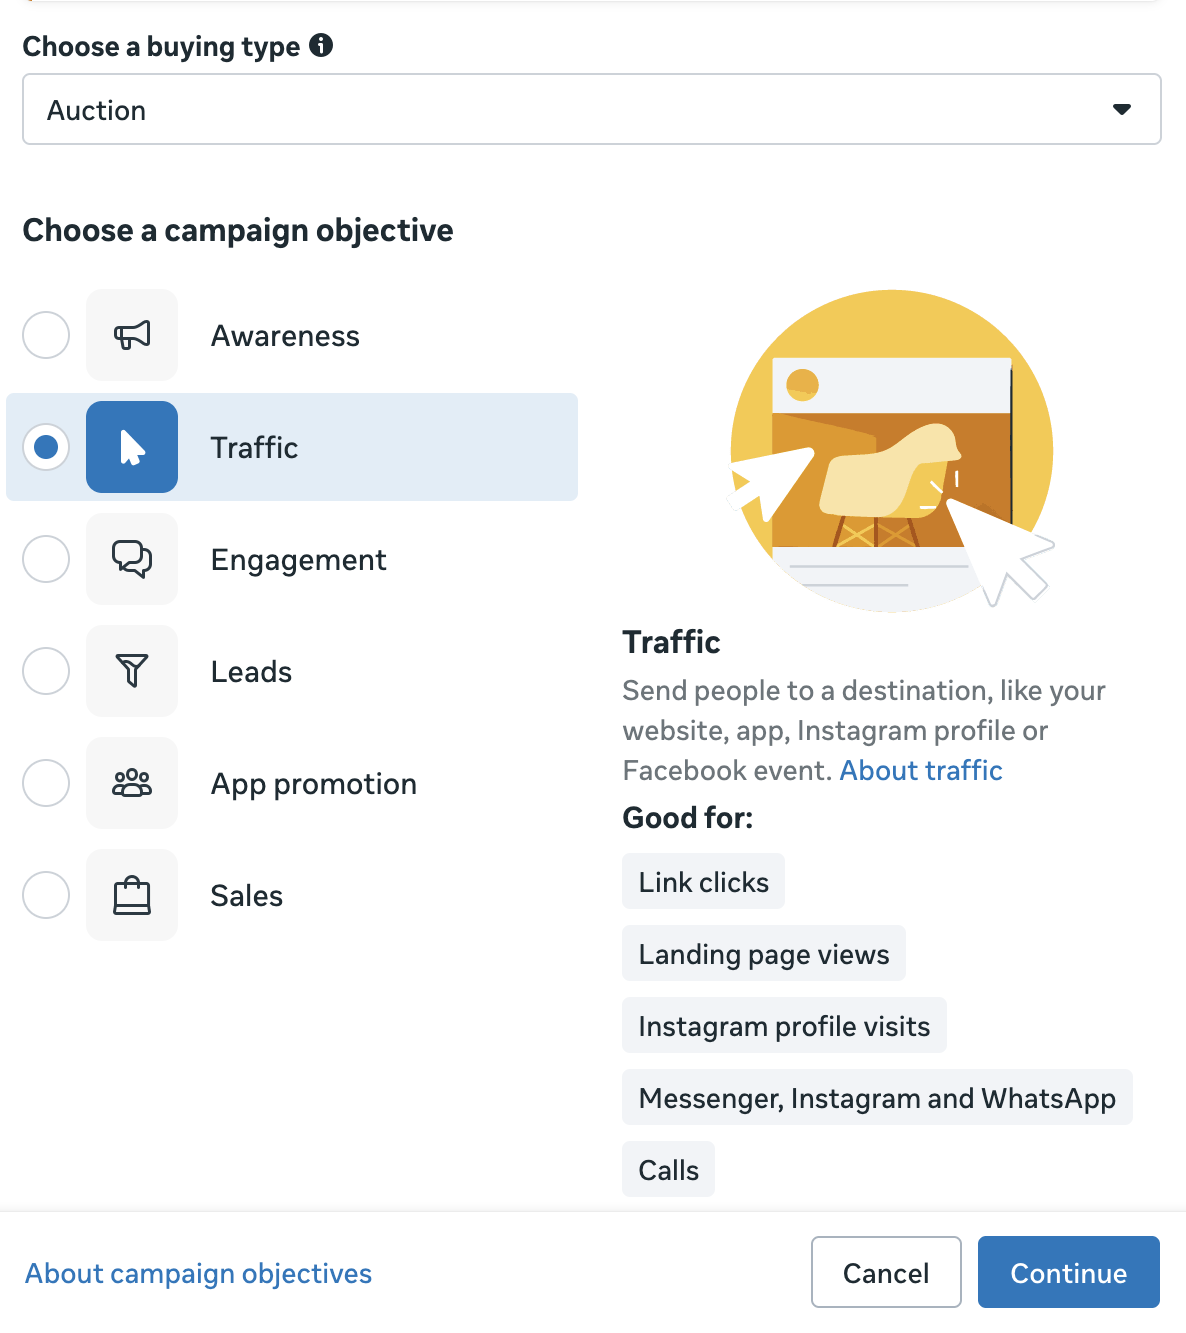
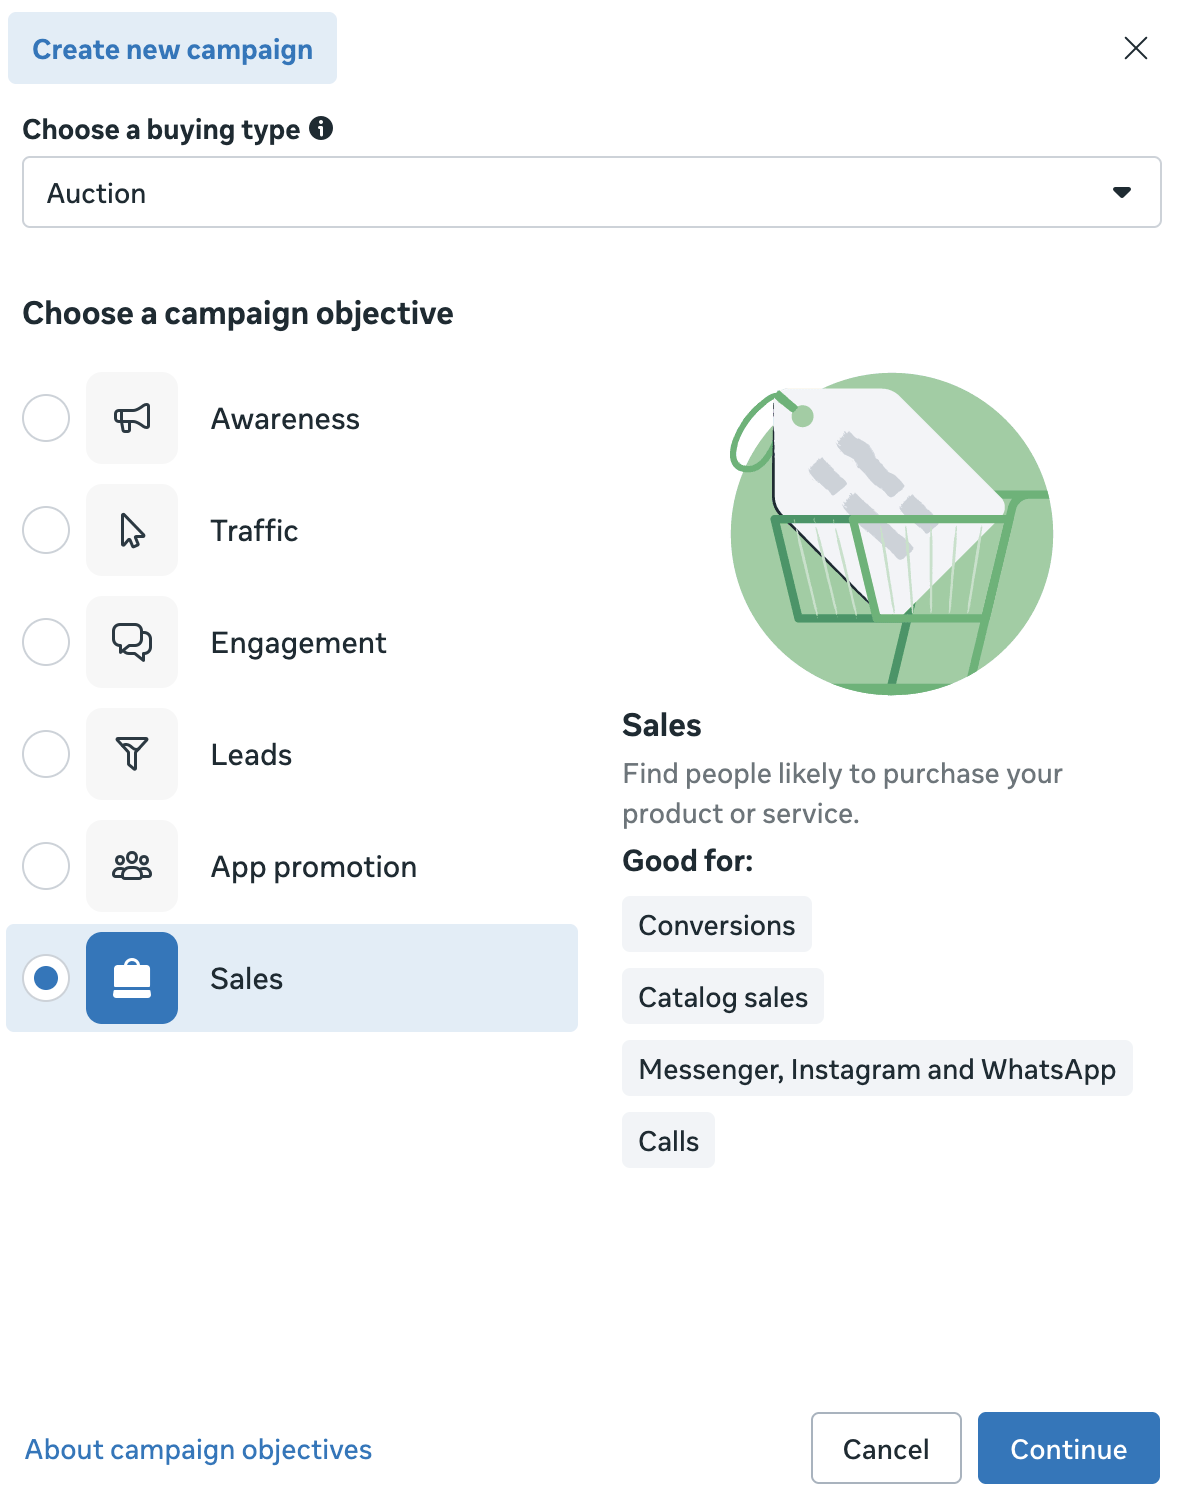
Meta fixes

diff --git a/versioned_docs/version-3.0/meta-create-campaign.md b/versioned_docs/version-3.0/meta-create-campaign.md
@@ -33,11 +33,31 @@ So, you need to link your business page to your Meta Ads business portfolio:
 
    <ZoomImage id="add-page-meta.png" />
 
-3. Optionally, attach your Instagram account on the **Account > Instagram accounts** in the settings.
+3. Optionally, attach your Instagram account on the **Account > Instagram accounts** page in the settings.
 
 Once you've connected your business page, you're ready to move further.
 
-## Step 2. Create campaign
+## Step 2. Add Meta pixel
+
+You will need a Meta pixel to connect your campaign data to revenue and get better results.
+
+Before you connect data and create a pixel, you will need:
+- A business page – add it to your business portfolio in [**Settings > Accounts > Pages**](https://business.facebook.com/latest/settings/pages)
+- A business manager account – you must have full control over the business portfolio
+- A business email – set in [**Settings > Business info**](https://business.facebook.com/latest/settings/business_info)
+- An ad account – add it to your business portfolio in [**Settings > Accounts > Ad accounts**](https://business.facebook.com/latest/settings/ad_accounts)
+
+When you're ready, create a pixel:
+1. Go to [**Events Manager**](https://www.facebook.com/events_manager2). Click **Connect data**.
+   <ZoomImage id="connect-data.webp" />
+2. Select **Web** as a data source type.
+   <ZoomImage id="new-data-source.webp" />
+3. Give your dataset a name and click **Create**.
+   <ZoomImage id="new-dataset.webp" />
+4. If you are planning to use Meta Ads with some MMP service (e.g., [Adapty User Acquisition](adapty-user-acquisition.md)), you won't need to complete the full installation of the pixel. So, when asked about the integration, you can just click **Cancel** in the setup window, and your pixel will still appear on the list.
+5. When your dataset appears on the list, you can proceed with creating a campaign.
+
+## Step 3. Create campaign
 
 To create a campaign in Meta Ads Manager:
 
@@ -45,59 +65,54 @@ To create a campaign in Meta Ads Manager:
 
    <ZoomImage id="meta-new-campaign.webp" />
 
-2. Select a campaign objective and click **Continue**.
+2. Select **Sales** as a campaign objective and click **Continue**.
    
-   Select **Traffic** if you are working with [Adapty User Acquisition](adapty-user-acquisition.md) to connect the campaign data with your revenue metrics.
    <ZoomImage id="meta-objective.webp" />
 
-3. Select **Manual traffic campaign** to have more control over the campaign settings. Then, click **Continue**
-
-   <ZoomImage id="campaign-setup.webp" />
-
-4. Name your campaign in the **Campaign name** section.
-5. In the **Budget** section, in **Budget strategy**, select how you want to control the budget:
+3. Name your campaign in the **Campaign name** section.
+4. In the **Budget** section, in **Budget strategy**, select how you want to control the budget:
    - **Campaign budget**: The easiest option if you are not sure which opportunities would work best. If you select this, Meta Ads will automatically detect top performers to allocate more budget on better-performing ad sets.
    
      Then, select whether you need **Daily** or **Lifetime** budget and enter the limit in your currency. **Daily** budget allows you more flexibility while you are still learning, so you can start with smaller amounts and gradually adjust them on the go. Or, you can select **Schedule budget increase** and set rules to automatically increase the budget by value amount or percentage.
      <ZoomImage id="daily-budget.webp" />
    - **Ad set budget**: Select this option if you want to manually define which audiences will get more or less campaign budget. If not completely sure, you can select **Share some of your budget with other ad sets** to allow Meta to automatically adjust ad set budgets by up to 20% if it benefits the ad performance.
      <ZoomImage id="ad-set-budget.webp" />
-6. In **Campaign bid strategy**, select the best option for your goals:
+5. In **Campaign bid strategy**, select the best option for your goals:
    - **Highest volume (default)**: The easiest option to get started. If you select this, you let Meta optimize the click cost to get the best results for your budget.
    - **Cost per result goal**: Aim for a certain cost per result if you know your benchmarks.
    - **Bid cap**: Set the highest cost you are ready to bid.
    <ZoomImage id="campaign-bid.webp" />
-7. If you want to test different creatives, audiences, or placements against each other, enable A/B tests. Read more about A/B tests in Meta Ads Manager [here](https://www.facebook.com/business/help/1159714227408868).
-8. Now, it's time to add the first ad set to your campaign. Click **Next** to proceed.
+6. Adapty lets you conduct comprehensive [A/B tests](ab-tests.md). However, you can also enable A/B tests in Meta Ads if needed. Read more about A/B tests in Meta Ads Manager [here](https://www.facebook.com/business/help/1159714227408868).
+7. Now, it's time to add the first ad set to your campaign. Click **Next** to proceed.
 
-## Step 3. Create ad set
+## Step 4. Create ad set
 
 To create an ad set:
 1. Give your ad set a name in the **Ad set name** field.
-2. In the **Conversion** section, select **Website**. 
-    :::tip
-    In [Adapty User Acquisition](adapty-user-acquisition.md), you can create a link that will contain tracking parameters and automatically send users to your app in stores.
-    :::
+2. In the **Conversion location** dropdown, select **Website**. 
    <ZoomImage id="conversion-location.webp" />
-3. In the **Performance goal** field, select **Maximize number of landing page views** or **Maximize number of link clicks**. Both will work in our case.
+3. In the **Performance goal** field, select **Maximize number of landing page views** if you have a landing page or **Maximize number of link clicks** if you use a smart link navigating users directly to the store.
 
    <ZoomImage id="performance-goal.webp" />
 
-4. If you have some audiences or placements that are worth more to your business than the others, you can set **Value rules**. Read more [here](https://www.facebook.com/business/help/535014515741813).
-5. If, when setting up the campaign, you have selected **Ad set budget**, select whether you need **Daily** or **Lifetime** budget and enter the limit in your currency. **Daily** budget allows you more flexibility while you are still learning, so you can start with smaller amounts and gradually adjust them on the go. 
+4. In the **Dataset** field, select the dataset you've created on [Step 2](#step-2-add-meta-pixel).
+5. Select a **Conversion event**. In our case, it is probably going to be **Purchase** or **Start trial**. Don't worry if you see a warning that your dataset doesn't have any events yet – that just means that your dataset is new.
+   <ZoomImage id="conversion-event.webp" />
+
+6. If, when setting up the campaign, you have selected **Ad set budget**, select whether you need **Daily** or **Lifetime** budget and enter the limit in your currency. **Daily** budget allows you more flexibility while you are still learning, so you can start with smaller amounts and gradually adjust them on the go. 
    
    Set the start and, if applicable, end dates for the ad set. For example, if you want to advertise a promotional offer in your app, it is crucial to align the ad set timeframe with the offer.
 
    <ZoomImage id="ad-set-money.webp" />
 
-6. In the **Audience controls** section, set the audience settings:
+7. In the **Audience controls** section, set the audience settings:
     - **Location**: Locations can be as broad or narrow as you need them to be. You can limit **Locations** in the ad set to work with the region specifics in your ads.
     - **Minimum age**: Select the minimum age of users that will see your ad. For some ads, it may be legally required. You can't select a minimum age below 18 globally or 20 in Thailand.
     - **Language**: Set **Language** only if it is not the most common language in selected countries. For example, you won't need to select **English** in the United States, but, if you target Spanish-speaking people living there, you might want to select **Spanish**.
 
    <ZoomImage id="meta-audience.webp" width="500px" />
 
-7. By default, Meta automatically finds smaller groups of people to whom your ad will be relevant. However, if you add an audience suggestion, you can guide Meta towards people you think are likely to respond. In the **Advantage+ audience** section, you can adjust:
+8. By default, Meta automatically finds smaller groups of people to whom your ad will be relevant. However, if you add an audience suggestion, you can guide Meta towards people you think are likely to respond. In the **Advantage+ audience** section, you can adjust:
     - **Age**: Set a specific age range to target, so you better match specific of different age groups.
     - **Gender**: Show your ad to all users or target them by their gender.
     - **Detailed targeting**: This setting allows you the most specific control over the audience for your ad and/or app. Here, you can form groups based on **Demographics**, **Interests**, or **Behaviors**. Depending on what your app is doing, for example, you can focus on different professions, fans of specific music bands, parents of newborns, or those who tend to shop online a lot.
@@ -105,12 +120,12 @@ To create an ad set:
     The **Detailed targeting** settings apply with the **Or** operator. If you want to apply conditions with the **And** operator, click **Define further** and select new conditions.
     :::
     <ZoomImage id="advantage-audience.webp" />
-8. In the **Placements** section, you can select where your ad will appear. By default, the **Advantage+** setting is selected, letting Meta allocate your ad set's budget across multiple placements based on where they're likely to perform best. We recommend you to use this option if you are not sure where to place your ad. If you want to select specific placements manually, select **Manual placements** and customize them. Read more [here](https://www.facebook.com/business/help/965529646866485).
+9. In the **Placements** section, you can select where your ad will appear. By default, the **Advantage+** setting is selected, letting Meta allocate your ad set's budget across multiple placements based on where they're likely to perform best. We recommend you to use this option if you are not sure where to place your ad. If you want to select specific placements manually, select **Manual placements** and customize them. Read more [here](https://www.facebook.com/business/help/965529646866485).
 
    <ZoomImage id="meta-placements.webp" width="500px" />
-9. When you're ready, click **Next** to proceed.
+10. When you're ready, click **Next** to proceed.
 
-## Step 4. Create ads
+## Step 5. Create ads
 
 To create an ad in Meta Ads Manager:
 
@@ -129,6 +144,6 @@ To create an ad in Meta Ads Manager:
 
 ## What's next
 
-Once your ad is live:
-- [Set up a Meta pixel](https://www.facebook.com/business/help/952192354843755?id=1205376682832142) to collect more insights on the campaign performance.
-- [Explore how the campaign affects your app revenue in Adapty User Acquisition](adapty-user-acquisition.md)
+To activate your ad, you will need to add a payment method if you haven't done it before.
+
+If you use Adapty User Acquisition, [you can explore how the campaign affects your app revenue in the dashboard](adapty-user-acquisition.md)
